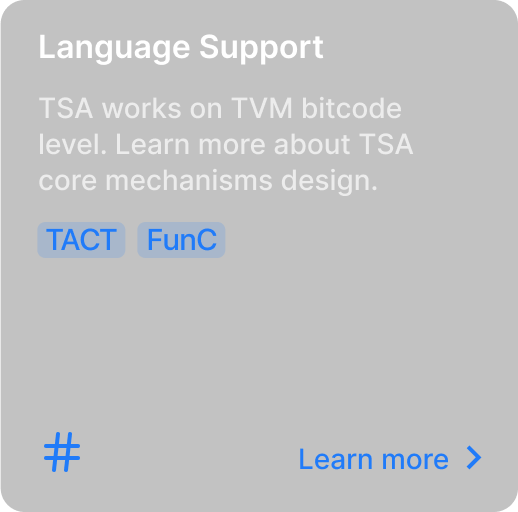
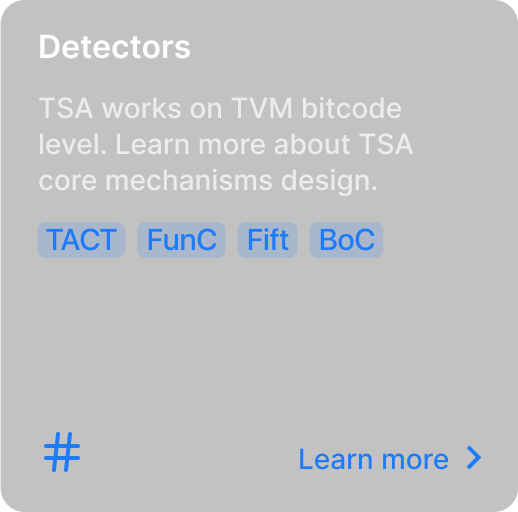
Updated navigation texts

Changed region(s): [[0.0927, 0.0625, 0.6178, 0.125], [0.4324, 0.4062, 0.7413, 0.5312]]

diff --git a/docs/modes/error-detection-mode.md b/docs/modes/error-detection-mode.md
@@ -25,7 +25,75 @@ The output in this mode is a SARIF report containing the following information a
 
 For more information about error types, see the [relevant section](../error-types).
 
-### Examples
+## Examples
+
+<details>
+  <summary><b>Source-maps disclaimer</b></summary>
+
+The original Tact and FunC compilers do not preserve source code location information (source maps) in the resulting compiled code,
+and the SARIF report generated by the tool will not be able to pinpoint errors directly in the source code.<br>
+<br>
+However, by using patched versions of the <a href="https://github.com/jefremof/tact/tree/tact-debug-info-bundled">Tact compiler</a>,  
+<a href="https://github.com/jefremof/ton/tree/func-0.4.6-debug-info">FunC compiler</a>,  
+and the <a href="https://github.com/jefremof/tsa/tree/pysical-locations">TSA analyzer</a>,<br>
+it is possible to achieve full error mapping in the source code, as demonstrated in this pull request via <a href="https://github.com/jefremof/tsa-actions/pull/3">GitHub Actions</a>
+</details>
+
+The following examples will cover both cases: with source maps and with raw SARIF.
+
+### Example with patched compilers and source maps
+
+Consider a simple smart contract written in Tact that may encounter an arithmetic overflow error when the `divide` method receives a value of `subtrahend` close to the minimal integer value:
+
+```javascript
+contract Divider {
+
+  init() {}
+
+  receive() {
+    // Do nothing
+  }
+
+
+
+
+  get fun divide(subtrahend: Int, dividend: Int, flag: Bool): Int {
+    let divider: Int = 42;
+
+    if (flag) {
+
+
+
+      divider -= subtrahend;
+    } else {
+
+
+      divider = 2;
+    }
+
+    if (dividend == 100) {
+      throw(100);
+    }
+
+    return dividend / divider;
+  }
+}
+```
+
+Running the patched analyzer for this contract with patched Tact compiler with the following command (according to the [PR](https://github.com/jefremof/tsa-actions/pull/3)):
+
+```bash
+java -jar tsa-cli.jar \
+tact -c "tact.config.json" -p "sample" -i "Divider" \
+> Divider.sarif
+```
+
+produces a SARIF report that could be rendered in GitHub highlighting a possible error:
+
+<img alt="img.png" src="../images/sarif-github-error.png"/>
+
+
+### Example with a raw SARIF
 
 Consider a simple smart contract that may encounter a cell overflow error when the `write` method receives a value greater than 4:
 
@@ -64,9 +132,11 @@ func -i /project/example.fc \
 --fift-std /project/fiftstdlib
 ```
 
-(please note that FunC stdlib is pointed using the specific option `func-std`, not as a part of the input file) identifies the error in the SARIF:
+(please note that FunC stdlib is pointed using the specific option `func-std`, not as a part of the input file) identifies the error in the raw SARIF report:
 
-```json
+<details>
+  <summary><b>Raw SARIF report</b></summary>
+  <pre><code class="language-json">
 {
     "$schema": "https://raw.githubusercontent.com/oasis-tcs/sarif-spec/master/Schemata/sarif-schema-2.1.0.json",
     "version": "2.1.0",
@@ -136,7 +206,8 @@ func -i /project/example.fc \
         }
     ]
 }
-```
+  </code></pre>
+</details>
 
 Here the analyzed method has the id `75819`, 
 the analyzer covered 100% instructions of this method,

diff --git a/docs/getting-started.md b/docs/getting-started.md
@@ -25,27 +25,20 @@ docker run --platform linux/amd64 -it --rm -v [SOURCES_DIR_ABSOLUTE_PATH]:/proje
 
 #### Using JAR Executables
 
-The [Releases page](https://github.com/espritoxyz/tsa/releases) provides two JAR executables:
+The [Releases page](https://github.com/espritoxyz/tsa/releases) provides a JAR executable:
 
 - `tsa-cli.jar`
-- `tsa-safety-properties.jar`
 
-Before using them, ensure you have the following installed:
+Before using it, ensure you have the following installed:
 
 - [JRE](https://www.java.com/en/download/manual.jsp)
 - [Tact compiler](https://github.com/tact-lang/tact)
 - [FunC and Fift compilers](https://github.com/ton-blockchain/ton/releases/latest)
 
-Then, you can run the analysis in the standard error-checking/tests generation mode:
+Then, you can run the analysis in the standard error-checking/tests generation mode or with checker mode:
 
 ```bash
 java -jar tsa-cli.jar
-```
-
-or in the safety-properties checker mode:
-
-```bash
-java -jar tsa-safety-properties.jar
 ```
 
 ### Windows
@@ -62,5 +55,4 @@ Currently, `TSA` can only be run on Windows using the JAR executables. Refer to 
    - [FunC and Fift compilers](https://github.com/ton-blockchain/ton/releases/latest)
 2. Clone this repository
 3. Ensure `tact`, `func`, and `fift` are in your `$PATH`
-4. Run `./gradlew tsa-cli:shadowJar` from the root of the project to build [error-checking analysis tool](./error-checking-tests-generation-mode.md) (will be located in [build dir](../tsa-cli/build/libs/tsa-cli.jar))
-   or `./gradlew tsa-safety-properties:shadowJar` to build [safety-properties checker](./safety-properties-mode.md) (will be located in [build dir](/tsa-safety-properties/build/libs/tsa-safety-properties.jar))
+4. Run `./gradlew tsa-cli:shadowJar` from the root of the project to build [error-checking analysis tool](modes/getting-started) (will be located in [build dir](../tsa-cli/build/libs/tsa-cli.jar))

diff --git a/docs/installation.md b/docs/installation.md
@@ -77,5 +77,4 @@ Currently, `TSA` can only be run on Windows using the JAR executables. Refer to 
     npm run build
     ```
 4. Ensure `tact`, `func`, and `fift` are in your `$PATH`
-5. Run `./gradlew tsa-cli:shadowJar` from the root of the project to build [error-checking analysis tool](modes/error-detection-mode) (will be located in the [build dir](../tsa-cli/build/libs/tsa-cli.jar))
-   or `./gradlew tsa-safety-properties:shadowJar` to build [safety-properties checker](modes/checking-mode) (will be located in the [build dir](../tsa-safety-properties/build/libs/tsa-safety-properties.jar))
+5. Run `./gradlew tsa-cli:shadowJar` from the root of the project to build [error-checking analysis tool](modes/getting-started) (will be located in the [build dir](../tsa-cli/build/libs/tsa-cli.jar))

diff --git a/docs/modes/custom-checkers/custom-checkers.md b/docs/modes/custom-checkers/custom-checkers.md
@@ -7,12 +7,12 @@ nav_order: 1
 
 # Writing custom checkers
 
-The safety properties mode of `TSA` allows users to implement their own checkers to verify specific contract specifications.
+The checker mode of `TSA` allows users to implement their own checkers to verify specific contract specifications.
 
 ## Checker structure
 
 Any custom checker consists of a checker file, list of analyzed smart contracts and some options.
-It could be then run with a Docker or JAR with `safety-properties` argument provided. 
+It could be then run with a Docker or JAR with `custom-checker` argument provided. 
 
 ### Checker file
 

diff --git a/docs/modes/custom-checkers/inter-contract-communication-checker.md b/docs/modes/custom-checkers/inter-contract-communication-checker.md
@@ -216,7 +216,7 @@ To run this checker, you need to have either the `tsa-cli.jar` JAR file download
 To make it more clear, let's use the JAR here – run this command from the root of the repository:
 
 ```bash
-java -jar tsa-cli.jar safety-properties \
+java -jar tsa-cli.jar custom-checker \
 --checker tsa-safety-properties-examples/src/test/resources/examples/step3/balance_transfer_checker.fc \
 --contract func tsa-safety-properties-examples/src/test/resources/examples/step3/wallet.fc \
 --contract func tsa-safety-properties-examples/src/test/resources/examples/step3/wallet.fc \

diff --git a/docs/modes/custom-checkers/single-contract-state-checker.md b/docs/modes/custom-checkers/single-contract-state-checker.md
@@ -90,7 +90,7 @@ To run this checker, you need to have either the `tsa-cli.jar` JAR file download
 To make it more clear, let's use the JAR here – run this command from the root of the repository:
 
 ```bash
-java -jar tsa-cli.jar safety-properties \
+java -jar tsa-cli.jar custom-checker \
 --checker tsa-safety-properties-examples/src/test/resources/examples/step2/balance_reduction_checker.fc \
 --contract func tsa-safety-properties-examples/src/test/resources/examples/step2/storage.fc \
 --func-std tsa-safety-properties-examples/src/test/resources/imports/stdlib.fc \

diff --git a/docs/modes/custom-checkers/get-method-checker.md b/docs/modes/custom-checkers/get-method-checker.md
@@ -56,7 +56,7 @@ To run this checker, you need to have either the `tsa-cli.jar` JAR file download
 To make it more clear, let's use the JAR here – run this command from the root of the repository:
 
 ```bash
-java -jar tsa-cli.jar safety-properties \
+java -jar tsa-cli.jar custom-checker \
 --checker tsa-safety-properties-examples/src/test/resources/examples/step1/abs_checker.fc \
 --contract func tsa-safety-properties-examples/src/test/resources/examples/step1/abs.fc \
 --func-std tsa-safety-properties-examples/src/test/resources/imports/stdlib.fc \

diff --git a/docs/error-types.md b/docs/error-types.md
@@ -4,6 +4,8 @@ title: Detectors
 nav_order: 4
 ---
 
+# Error detectors
+
 The primary types of [TVM runtime errors](https://docs.ton.org/v3/documentation/tvm/tvm-exit-codes) that occur in TON smart contracts can be divided into three categories:
 
 - Arithmetic Errors

diff --git a/docs/design/tsa-checker-functions.md b/docs/design/tsa-checker-functions.md
@@ -1,6 +1,6 @@
 ---
 layout: default
-title: TSA safety-properties checker functions 
+title: TSA checker functions 
 parent: Core mechanisms design
 nav_order: 3
 ---
